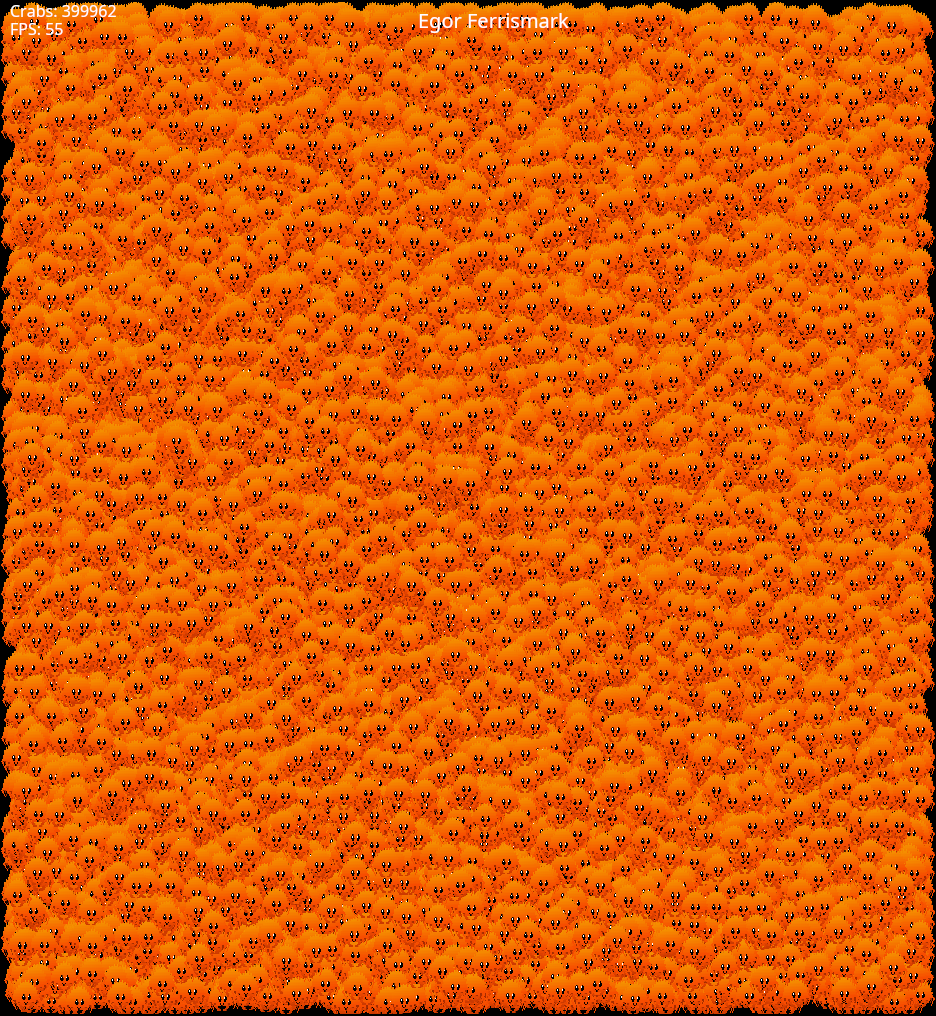
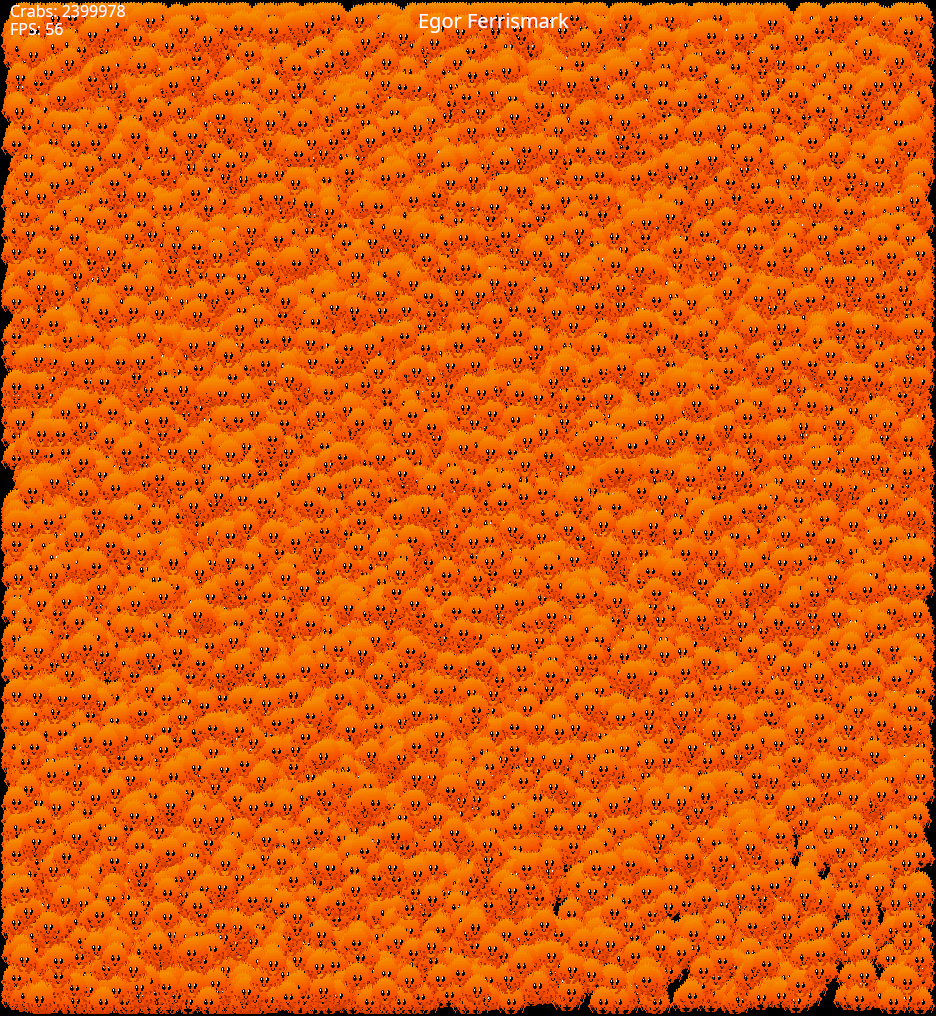
docs(ferrismark): update demo/screenshot about performance

diff --git a/demos/ferrismark/README.md b/demos/ferrismark/README.md
@@ -2,10 +2,16 @@
 
 ![Ferris](/demos/ferrismark/assets/ferris_smol.png) (the little dude seen below)
 
-A simple stress test for **egor**, rendering tens to hundreds of thousands of Ferris crabs at stable FPS without instancing
+A simple stress test for **egor** with Ferris the crab (or a few)
 
 ![Ferrismark Screenshot](/media/ferrismark.png)
 
-> Stable 55 FPS with ~400k crabs (Ryzen 5 2600 + Radeon PRO WX2100, Wayland/Arch Linux)
+> Stable 56 FPS with ~2.4 million crabs
 
-Just left click to spawn 9999 crabs as many times as you can
+## Performance
+
+The results seen here were produced (with this demo) from an optimized release build with a Ryzen 5 2600 and a Radeon Pro WX2100 using the Vulkan backend on Wayland/Arch Linux. Each crab is updated and rendered individually, without GPU instancing
+
+## Spawning Crabs
+
+Click to spawn 9,999 crabs at a time. Repeat to see how many **egor** can handle

diff --git a/README.md b/README.md
@@ -155,7 +155,7 @@ dx serve --hot-patch
 
 ## Performance
 
-To stress test **egor**, we made [ferrismark](demos/ferrismark), a bunnymark like demo, rendering hundreds of thousands of Ferris crabs at stable FPS on modest hardware
+To stress test **egor**, we made [ferrismark](demos/ferrismark), a bunnymark like demo capable of rendering millions of Ferris crabs at stable FPS on modest hardware
 
 <img src="media/ferrismark.png" height="400" />
 
@@ -178,7 +178,3 @@ Check out some [issues](https://github.com/wick3dr0se/egor/issues), open a new o
 ---
 
 **egor** is maintained with ❤ by [Open Source Force](https://github.com/opensource-force)
-
-```
-
-```
